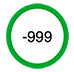
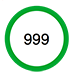
Change error temp from -999 to 999.

diff --git a/src/Components/Solve/Solve.js b/src/Components/Solve/Solve.js
@@ -13,14 +13,14 @@ function Solve() {
 
             <h1>Solution Guide</h1>
             <p>
-                This guide provides solutions to correct an invalid temperature value of -999 &#176;F and to 
+                This guide provides solutions to correct an invalid temperature value of 999&#176;F and to 
                 manually schedule weather alert updates.
             </p>
             <p>
-                <h2>Issue: Temperature displayed is -999 &#176;F</h2>
+                <h2>Issue: Temperature displayed is 999&#176;F</h2>
                 From time to time, weather stations may not be active. This is evident as an invalid current temperature value of
-                -999 &#176;F displayed on the Current Weather view. Invalid temperature readings appear on
-                the Forecast View as -999.
+                999 &#176;F displayed on the Current Weather view. Invalid temperature readings appear on
+                the Forecast View as 999&#176;.
             </p>
             <p>
                 <h3>Solution: Select a different weather station</h3> 
